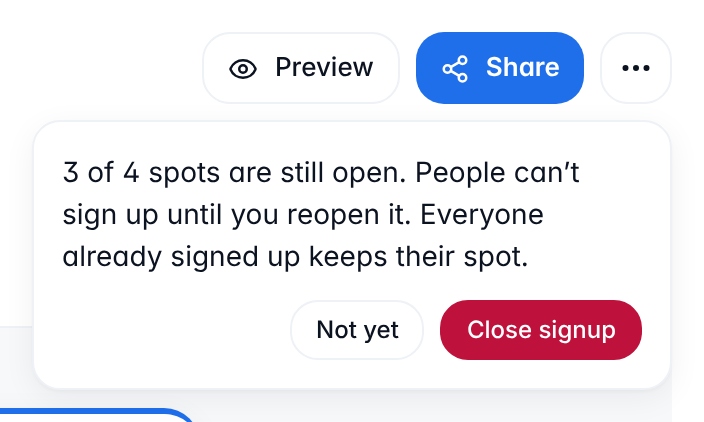
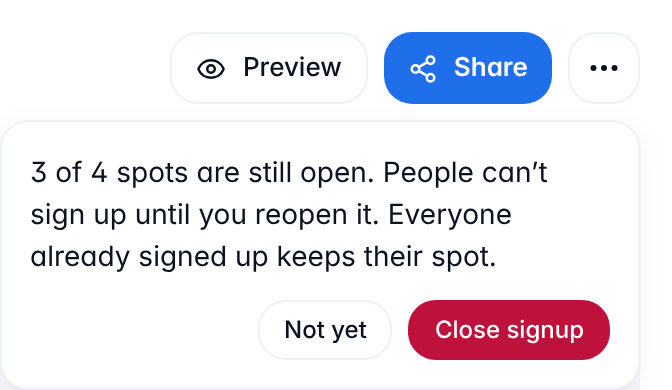
Say what a closing time does, crop the page out of Close's picture
From a review of the help page before it went up:

- "A closing time still to come stays" now says nobody can sign up
  after it.
- "their link" becomes "the link they got when they signed up", so it
  can't be read as the signup's own link from the bullets around it.
- close-question.png ends at the panel's left and bottom edges, so the
  page under the panel no longer shows in its corner.
- The phone walkthrough checks the sheet stays shut after Reopen signup
  directly, and reads the screen's height rather than restating it.

Claude-Session: https://claude.ai/code/session_01LrYa57fvbqWjZj89iH975K

diff --git a/tests/e2e/help/close-or-reopen-a-signup.spec.ts b/tests/e2e/help/close-or-reopen-a-signup.spec.ts
@@ -16,22 +16,25 @@ const CAPTURE = process.env.HELP_SCREENSHOTS === '1';
 const SHOT_DIR = `public/help/${SLUG}`;
 const TITLE = 'Snack duty — Spring season';
 
+type Pad = number | { top: number; right: number; bottom: number; left: number };
+
 /**
  * The part of the page that holds every one of `targets`, with `pad` pixels
- * of the page around it, in whole pixels, so the file is exactly twice the
- * size the article gives.
+ * of the page around it (the same on every side, or each side's own), in
+ * whole pixels, so the file is exactly twice the size the article gives.
  */
-async function shot(page: Page, targets: Locator[], name: string, pad = 16): Promise<void> {
+async function shot(page: Page, targets: Locator[], name: string, pad: Pad = 16): Promise<void> {
   if (!CAPTURE) return;
+  const around = typeof pad === 'number' ? { top: pad, right: pad, bottom: pad, left: pad } : pad;
   // Fonts and focus settle after the last action.
   await page.waitForTimeout(300);
   const boxes = await Promise.all(targets.map((target) => target.boundingBox()));
   const found = boxes.filter((box) => box !== null);
   if (found.length !== targets.length) throw new Error(`${name}: not on the page`);
-  const x = Math.floor(Math.min(...found.map((b) => b.x))) - pad;
-  const y = Math.floor(Math.min(...found.map((b) => b.y))) - pad;
-  const right = Math.ceil(Math.max(...found.map((b) => b.x + b.width))) + pad;
-  const bottom = Math.ceil(Math.max(...found.map((b) => b.y + b.height))) + pad;
+  const x = Math.floor(Math.min(...found.map((b) => b.x))) - around.left;
+  const y = Math.floor(Math.min(...found.map((b) => b.y))) - around.top;
+  const right = Math.ceil(Math.max(...found.map((b) => b.x + b.width))) + around.right;
+  const bottom = Math.ceil(Math.max(...found.map((b) => b.y + b.height))) + around.bottom;
   await page.screenshot({
     path: `${SHOT_DIR}/${name}.png`,
     clip: { x, y, width: right - x, height: bottom - y },
@@ -145,7 +148,14 @@ test.describe('help: close or reopen a signup', () => {
       if (CAPTURE) {
         // No focus ring on Not yet in the picture.
         await page.evaluate(() => (document.activeElement as HTMLElement | null)?.blur());
-        await shot(page, [more, panel], 'close-question');
+        // Flush with the panel's left and bottom edges: the page under it
+        // shows there otherwise.
+        await shot(page, [more, panel], 'close-question', {
+          top: 16,
+          right: 16,
+          bottom: 0,
+          left: 0,
+        });
       }
       await closeNow.click();
 
@@ -266,7 +276,7 @@ test.describe('help: close or reopen a signup', () => {
       const share = page.getByRole('button', { name: UI.share, exact: true });
       await expect(share).toBeVisible();
       const shareBox = await share.boundingBox();
-      expect(shareBox?.y ?? 0).toBeGreaterThan(844 / 2);
+      expect(shareBox?.y ?? 0).toBeGreaterThan((page.viewportSize()?.height ?? 0) / 2);
 
       await more.click();
       // On a phone the three dots open a sheet, named after the signup.
@@ -300,6 +310,8 @@ test.describe('help: close or reopen a signup', () => {
       await expect(banner).toHaveCount(0);
       await expect(page.getByText(UI.open, { exact: true }).locator('visible=true')).toBeVisible();
       await expect(more).toBeVisible();
+      // The sheet Close signup was chosen in doesn't come back with it.
+      await expect(sheet).toBeHidden();
     });
   });
 });

diff --git a/src/help/articles/close-or-reopen-a-signup.tsx b/src/help/articles/close-or-reopen-a-signup.tsx
@@ -48,8 +48,8 @@ export function CloseOrReopenASignup() {
             <Screenshot
               src="/help/close-or-reopen-a-signup/close-question.png"
               alt="The panel under the three dots, saying 3 of 4 spots are still open, people can’t sign up until you reopen it, and everyone already signed up keeps their spot. Under it are Not yet and a red Close signup."
-              width={352}
-              height={211}
+              width={336}
+              height={195}
             />
           </Step>
         </Steps>
@@ -67,8 +67,8 @@ export function CloseOrReopenASignup() {
             on each slot that isn&apos;t full. Nobody new can sign up.
           </li>
           <li>
-            {KEEPS_THEIR_SPOT} They can still use their link to change their details or cancel, but
-            they can&apos;t take more spots.
+            {KEEPS_THEIR_SPOT} They can still change their details or cancel with the link they got
+            when they signed up, but they can&apos;t take more spots.
           </li>
           <li>
             Closing doesn&apos;t change reminder emails. Anyone who would have got one still does.
@@ -114,7 +114,7 @@ export function CloseOrReopenASignup() {
         </p>
         <p>
           If an AI assistant gave your signup a closing time that has passed, reopening removes it.
-          A closing time still to come stays.
+          A closing time still to come stays, and nobody can sign up after it.
         </p>
       </section>
     </>
